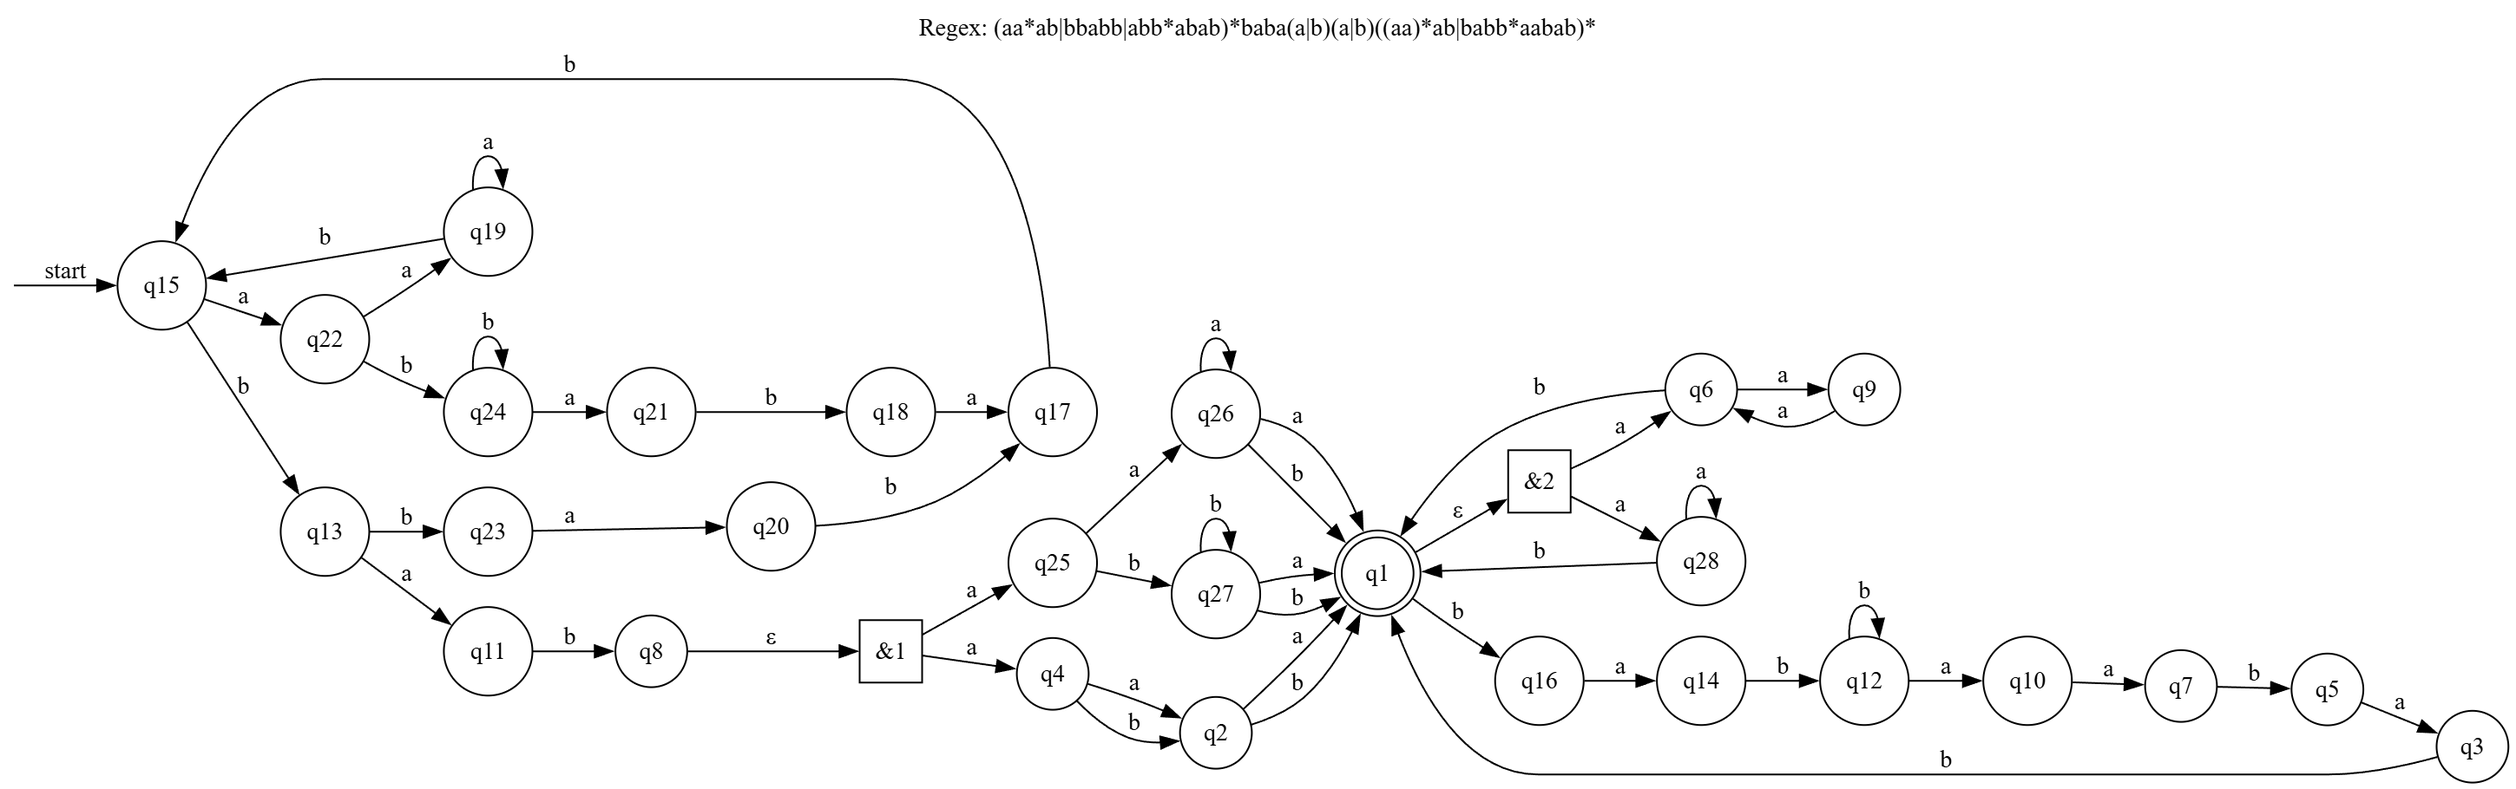
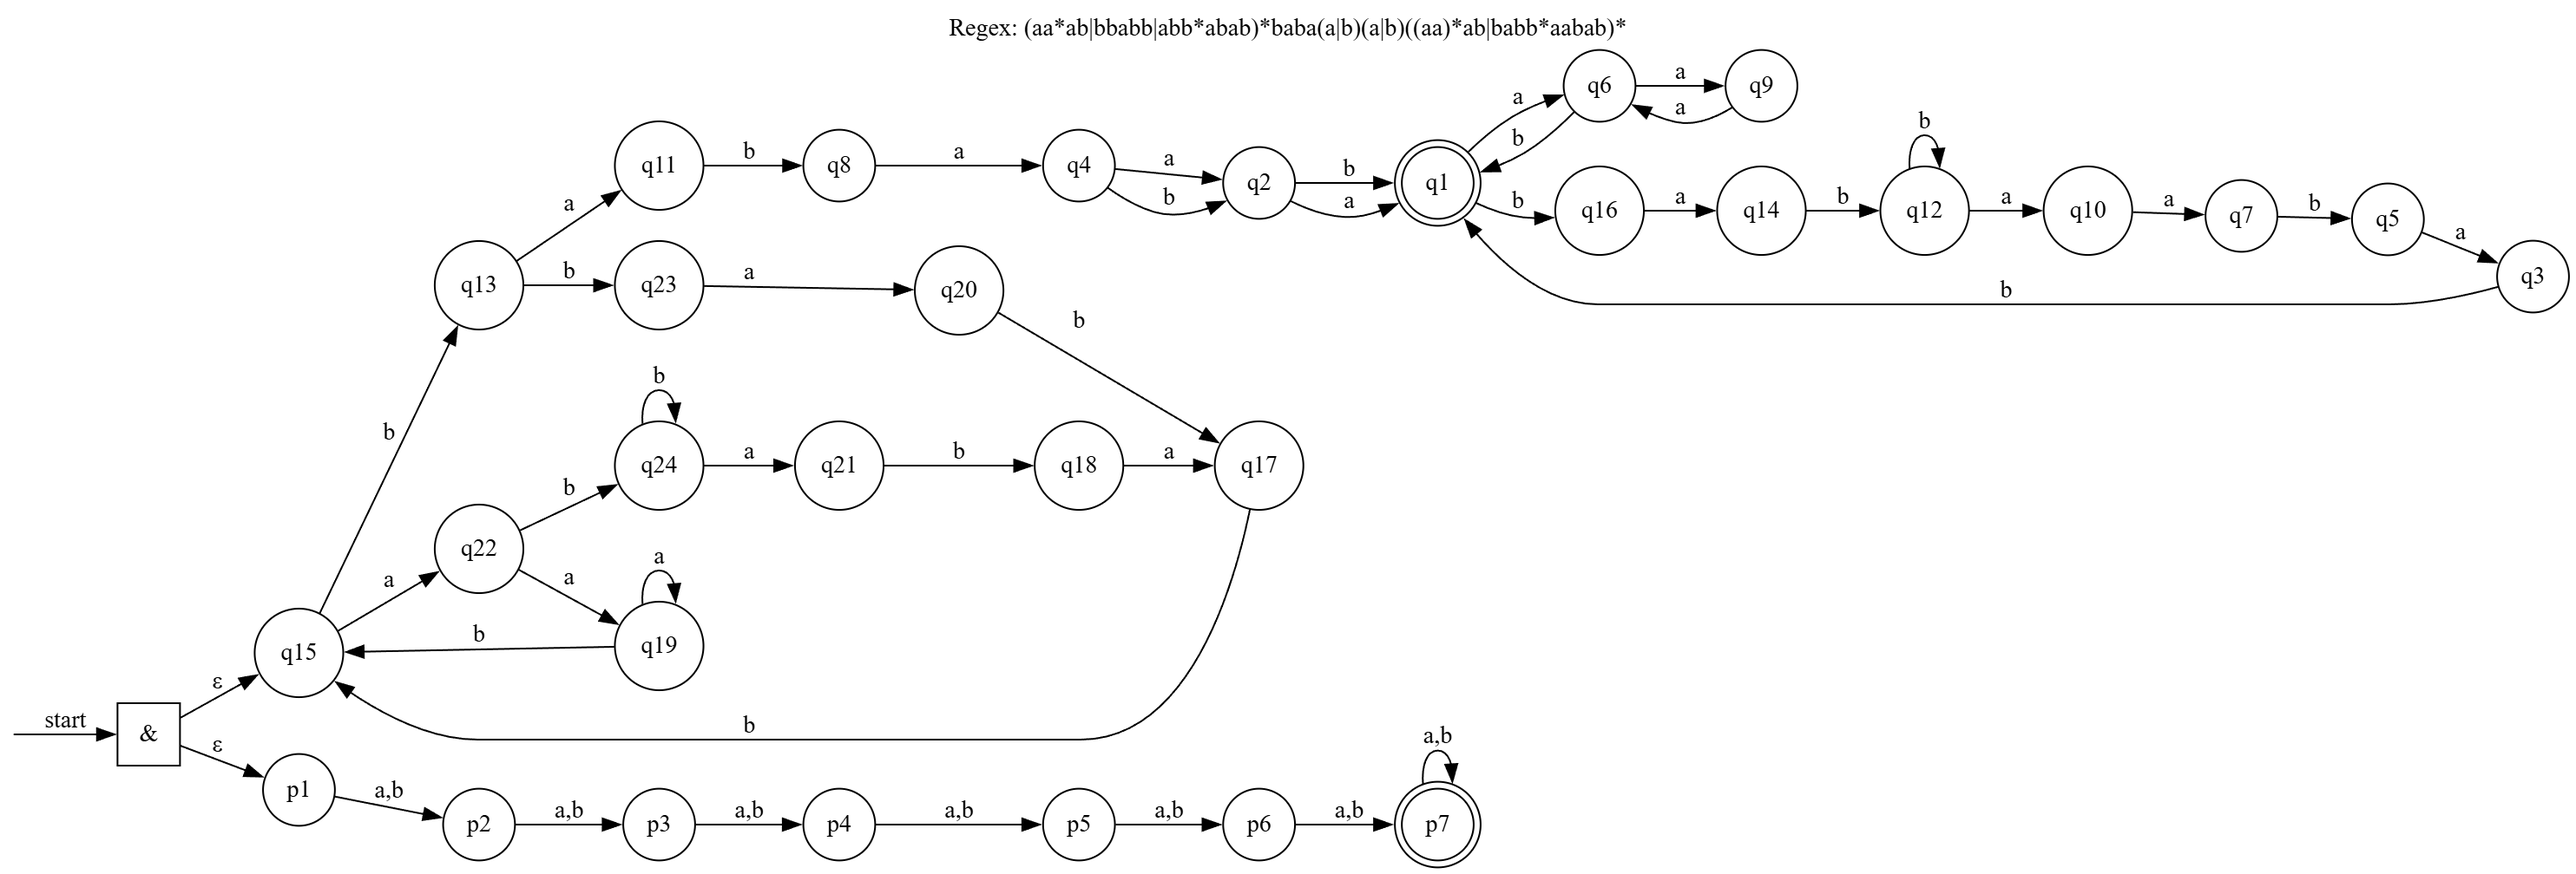
Переделан ПКА, добавлена новая картинка, поправлена проверка пка.

diff --git a/Lab2/table_afa.py b/Lab2/table_afa.py
@@ -10,25 +10,49 @@ def reachable_table_filtered_afa(states, alphabet, transitions, initial_state, f
 
     def delta_star(state_set, word):
         current = set(state_set)
+
+        # Обрабатываем эпсилон-переходы в начале
+        new_states = set()
+        for state in current:
+            if state in transitions and 'epsilon' in transitions[state]:
+                for transition_set in transitions[state]['epsilon']:
+                    new_states.update(transition_set)
+        current.update(new_states)
+
+        # Обрабатываем каждый символ слова
         for symbol in word:
             next_states = set()
             for state in current:
                 if state in transitions and symbol in transitions[state]:
                     for transition_set in transitions[state][symbol]:
                         next_states.update(transition_set)
+
+            # Обрабатываем эпсилон-переходы после символа
+            epsilon_expanded = set()
+            for state in next_states:
+                if state in transitions and 'epsilon' in transitions[state]:
+                    for transition_set in transitions[state]['epsilon']:
+                        epsilon_expanded.update(transition_set)
+            next_states.update(epsilon_expanded)
+
             current = next_states
             if not current:
                 break
+
         return current
 
     def is_accepting_from_state(state, word):
+        # Начинаем с одного состояния
         end_states = delta_star({state}, word)
         return bool(end_states & final_states)
 
     table = {}
+    # Включаем начальное состояние 's' в таблицу
+    all_states = set(states) | {initial_state}
+
     for w in words:
         row = {}
-        for s in states:
+        for s in all_states:
             accepts = is_accepting_from_state(s, w)
             row[s] = "+" if accepts else ""
         table[w] = row
@@ -38,7 +62,7 @@ def reachable_table_filtered_afa(states, alphabet, transitions, initial_state, f
         if any(v == "+" for v in row.values())
     }
 
-    return filtered_table
+    return filtered_table, all_states
 
 
 def print_table(table, states, max_depth=10):
@@ -69,7 +93,8 @@ def check_columns_have_plus(table, states):
     if not missing:
         print("\nВсе состояния имеют +")
     else:
-        print("\nСостояния без +:", ", ".join(sorted(missing, key=lambda x: int(x))))
+        print("\nСостояния без +:", ", ".join(
+            sorted(missing, key=lambda x: (0 if x == 's' else int(x[1:]) if x[0].isdigit() else int(x[1:])))))
 
     return missing
 
@@ -102,25 +127,37 @@ def check_no_identical_columns(table, states):
     return all_unique
 
 
-afa = create_afa()
-states = afa.states
-alphabet = afa.input_symbols
-transitions = afa.transitions
-initial_state = afa.initial_state
-final_states = afa.final_states
+def main():
+    afa = create_afa()
+    states = afa.states
+    alphabet = afa.input_symbols
+    transitions = afa.transitions
+    initial_state = afa.initial_state
+    final_states = afa.final_states
 
-print("Анализ AFA:")
-print(f"Состояния: {sorted(states)}")
-print(f"Алфавит: {alphabet}")
-print(f"Начальное состояние: {initial_state}")
-print(f"Конечные состояния: {final_states}")
+    print("Анализ AFA:")
+    print(f"Состояния: {sorted(states)}")
+    print(f"Алфавит: {alphabet}")
+    print(f"Начальное состояние: {initial_state}")
+    print(f"Конечные состояния: {final_states}")
 
-table_afa = reachable_table_filtered_afa(states, alphabet, transitions, initial_state, final_states, max_depth=6)
-print("\nТаблица достижимости для AFA:")
-print_table(table_afa, states, max_depth=5)
+    print("\n" + "=" * 60)
 
-print("\nПроверка наличия '+' в столбцах:")
-check_columns_have_plus(table_afa, states)
+    table_afa, all_states = reachable_table_filtered_afa(
+        states, alphabet, transitions, initial_state, final_states, max_depth=10
+    )
 
-print("\nПроверка уникальности столбцов:")
-check_no_identical_columns(table_afa, states)
+    print("\nТаблица достижимости для AFA:")
+    print_table(table_afa, all_states, max_depth=5)
+
+    print("\n" + "=" * 60)
+    print("Проверка наличия '+' в столбцах:")
+    check_columns_have_plus(table_afa, all_states)
+
+    print("\n" + "=" * 60)
+    print("Проверка уникальности столбцов:")
+    check_no_identical_columns(table_afa, all_states)
+
+
+if __name__ == "__main__":
+    main()

diff --git a/Lab2/AFA_test.py b/Lab2/AFA_test.py
@@ -3,45 +3,51 @@ from Lab2.AFA import AFA
 
 
 def create_afa():
-    states = {'1', '2', '3', '4', '5', '6', '7', '8', '9', '10', '11', '12', '13', '14', '15', '16', '17', '18', '19',
-              '20', '21', '22', '23', '24',
-              '25', '26', '27', '28'}
+    states = {'q1', 'q2', 'q3', 'q4', 'q5', 'q6', 'q7', 'q8',
+              'q9', 'q10', 'q11', 'q12', 'q13', 'q14', 'q15',
+              'q16', 'q17', 'q18', 'q19',
+              'q20', 'q21', 'q22', 'q23', 'q24',
+              'p1', 'p2', 'p3', 'p4', 'p5', 'p6', 'p7'}
     input_symbols = {'a', 'b'}
     transitions = {
-        '1': {'a': [{'6', '28'}], 'b': [{'16'}]},
-        '2': {'a': [{'1'}], 'b': [{'1'}]},
-        '3': {'b': [{'1'}]},
-        '4': {'a': [{'2'}], 'b': [{'2'}]},
-        '5': {'a': [{'3'}]},
-        '6': {'a': [{'9'}], 'b': [{'1'}]},
-        '7': {'b': [{'5'}]},
-        '8': {
-            'a': [
-                {'4', '25'}
-            ]},
-        '9': {'a': [{'6'}]},
-        '10': {'a': [{'7'}]},
-        '11': {'b': [{'8'}]},
-        '12': {'a': [{'10'}], 'b': [{'12'}]},
-        '13': {'a': [{'11'}], 'b': [{'23'}]},
-        '14': {'b': [{'12'}]},
-        '15': {'a': [{'22'}], 'b': [{'13'}]},
-        '16': {'a': [{'14'}]},
-        '17': {'b': [{'15'}]},
-        '18': {'a': [{'17'}]},
-        '19': {'a': [{'19'}], 'b': [{'15'}]},
-        '20': {'b': [{'17'}]},
-        '21': {'b': [{'18'}]},
-        '22': {'a': [{'19'}], 'b': [{'24'}]},
-        '23': {'a': [{'20'}]},
-        '24': {'a': [{'21'}], 'b': [{'24'}]},
-        '25': {'a': [{'26'}], 'b': [{'27'}]},
-        '26': {'a': [{'26'}, {'1'}], 'b': [{'27'}, {'1'}]},
-        '27': {'a': [{'1'}], 'b': [{'27'}, {'1'}]},
-        '28': {'a': [{'28'}], 'b': [{'1'}]}
+        's': {'epsilon': [{'q15', 'p1'}]},
+
+        'q1': {'a': [{'q6'}], 'b': [{'q16'}]},
+        'q2': {'a': [{'q1'}], 'b': [{'q1'}]},
+        'q3': {'b': [{'q1'}]},
+        'q4': {'a': [{'q2'}], 'b': [{'q2'}]},
+        'q5': {'a': [{'q3'}]},
+        'q6': {'a': [{'q9'}], 'b': [{'q1'}]},
+        'q7': {'b': [{'q5'}]},
+        'q8': {'a': [{'q4'}]},
+        'q9': {'a': [{'q6'}]},
+        'q10': {'a': [{'q7'}]},
+        'q11': {'b': [{'q8'}]},
+        'q12': {'a': [{'q10'}], 'b': [{'q12'}]},
+        'q13': {'a': [{'q11'}], 'b': [{'q23'}]},
+        'q14': {'b': [{'q12'}]},
+        'q15': {'a': [{'q22'}], 'b': [{'q13'}]},
+        'q16': {'a': [{'q14'}]},
+        'q17': {'b': [{'q15'}]},
+        'q18': {'a': [{'q17'}]},
+        'q19': {'a': [{'q19'}], 'b': [{'q15'}]},
+        'q20': {'b': [{'q17'}]},
+        'q21': {'b': [{'q18'}]},
+        'q22': {'a': [{'q19'}], 'b': [{'q24'}]},
+        'q23': {'a': [{'q20'}]},
+        'q24': {'a': [{'q21'}], 'b': [{'q24'}]},
+
+        'p1': {'a': [{'p2'}], 'b': [{'p2'}]},
+        'p2': {'a': [{'p3'}], 'b': [{'p3'}]},
+        'p3': {'a': [{'p4'}], 'b': [{'p4'}]},
+        'p4': {'a': [{'p5'}], 'b': [{'p5'}]},
+        'p5': {'a': [{'p6'}], 'b': [{'p6'}]},
+        'p6': {'a': [{'p7'}], 'b': [{'p7'}]},
+        'p7': {'a': [{'p7'}], 'b': [{'p7'}]}
+
     }
-    initial_state = '15'
-    final_states = {'1'}
+    initial_state = 's'
+    final_states = {'q1', 'p7'}
 
     afa = AFA(states, input_symbols, transitions, initial_state, final_states)
     return afa

diff --git a/Lab2/AFA.py b/Lab2/AFA.py
@@ -12,6 +12,12 @@ class AFA:
         return self._accepts_state(self.initial_state, input_string, 0, memo)
 
     def _accepts_state(self, state, input_string, position, memo) -> bool:
+        is_epsilon = False
+
+        if state in self.transitions and 'epsilon' in self.transitions[state]:
+            epsilon_clauses = self.transitions[state]['epsilon']
+            is_epsilon = True
+
         key = (state, position)
         if key in memo:
             return memo[key]
@@ -21,21 +27,29 @@ class AFA:
             memo[key] = result
             return result
 
-        symbol = input_string[position]
-        if symbol not in self.input_symbols:
-            memo[key] = False
-            return False
+        if not is_epsilon:
+            symbol = input_string[position]
+            if symbol not in self.input_symbols:
+                memo[key] = False
+                return False
 
-        if state not in self.transitions or symbol not in self.transitions[state]:
-            memo[key] = False
-            return False
+            if state not in self.transitions or symbol not in self.transitions[state]:
+                memo[key] = False
+                return False
+            clauses = self.transitions[state][symbol]
 
-        clauses = self.transitions[state][symbol]
+        else:
+            clauses = epsilon_clauses
+
+
 
         for clause in clauses:
             all_accept = True
             for next_state in clause:
-                if not self._accepts_state(next_state, input_string, position + 1, memo):
+                shift = 1
+                if is_epsilon:
+                    shift = 0
+                if not self._accepts_state(next_state, input_string, position + shift, memo):
                     all_accept = False
                     break
             if all_accept:

diff --git a/Lab2/README.md b/Lab2/README.md
@@ -81,20 +81,55 @@
 
 ### 3. ПКА
 
+Инварианты регулярного выражения:
+1. Строка состоит только из символов a и b.
+2. Длина строки не менее 6 символов.
+3. Строка содержит хотя бы одну из следующих подстрок: baba, bab, aba, ab, ba.
+4. Альтернативы первой части регулярного выражения `(aa*ab|bbabb|abb*abab)` оканчиваются на `b`; 
+Альтернативы третьей части регулярного выражения `((aa)*ab|babb*aabab)` оканчиваются на `ab`.
+5. Минимальное кол-во символов `a` или `b` которое может встретиться в слове равно двум.
+
+Для построения ПКА, был выбран второй инвариант. 
+
 ![ПКА](automata/AFA.png)
 
-Таблица классов эквиволентности 
+Таблица классов эквиволентности
 
-| Состояние | ε  | b  | aa | ba | aab | baab | aaab | aaaab |
-|-----------|----|----|----|----|-----|------|------|-------|
-| 26        | 0  | 1  | 1  | 1  | 1   | 1    | 1    | 1     |
-| 25        | 0  | 0  | 1  | 1  | 1   | 1    | 1    | 1     |
-| 27        | 0  | 1  | 0  | 1  | 1   | 1    | 1    | 1     |
-| 2         | 0  | 1  | 0  | 0  | 1   | 1    | 1    | 1     |
-| 4         | 0  | 0  | 1  | 1  | 0   | 1    | 1    | 1     |
-| 8         | 0  | 0  | 0  | 0  | 1   | 0    | 1    | 1     |
-| 6         | 0  | 1  | 0  | 0  | 1   | 1    | 0    | 1     |
-| 11        | 0  | 0  | 0  | 0  | 0   | 1    | 0    | 0     |
+| Состояние | ε | a | aa | aaa | aaab | baaa | aaaab | aabab | abaaa | baaab | babab | abaaab | ababab | baabab | babaaa | abaabab | bbbabaaa | abbbabaaa | babbabaaa | ababbabaaa | aabbabaaa | abbabaaa | bbabaaa |
+|-----------|---|---|----|-----|------|------|-------|-------|-------|-------|-------|--------|--------|--------|--------|---------|----------|-----------|-----------|------------|-----------|----------|---------|
+| q1        | 1 | 0 | 0  | 0   | 1    | 0    | 0     | 0     | 0     | 0     | 0     | 1      | 1      | 0      | 0      | 0       | 0        | 0         | 0         | 0          | 0         | 0        | 0       |
+| q2        | 0 | 1 | 0  | 0   | 0    | 0    | 1     | 1     | 0     | 1     | 1     | 0      | 0      | 0      | 0      | 0       | 0        | 0         | 0         | 0          | 0         | 0        | 0       |
+| q4        | 0 | 0 | 1  | 0   | 1    | 0    | 0     | 0     | 0     | 0     | 0     | 1      | 1      | 1      | 0      | 0       | 0        | 0         | 0         | 0          | 0         | 0        | 0       |
+| q8        | 0 | 0 | 0  | 1   | 0    | 0    | 1     | 1     | 0     | 0     | 0     | 0      | 0      | 0      | 0      | 1       | 0        | 0         | 0         | 0          | 0         | 0        | 0       |
+| q9        | 0 | 0 | 0  | 0   | 1    | 0    | 0     | 0     | 0     | 0     | 0     | 1      | 1      | 0      | 0      | 0       | 0        | 0         | 0         | 0          | 0         | 0        | 0       |
+| q11       | 0 | 0 | 0  | 0   | 0    | 1    | 0     | 0     | 0     | 0     | 0     | 0      | 0      | 1      | 0      | 0       | 0        | 0         | 0         | 0          | 0         | 0        | 0       |
+| q6        | 0 | 0 | 0  | 0   | 0    | 0    | 1     | 1     | 0     | 1     | 1     | 0      | 0      | 0      | 0      | 0       | 0        | 0         | 0         | 0          | 0         | 0        | 0       |
+| q12       | 0 | 0 | 0  | 0   | 0    | 0    | 0     | 1     | 0     | 0     | 0     | 0      | 0      | 1      | 0      | 0       | 0        | 0         | 0         | 0          | 0         | 0        | 0       |
+| q13       | 0 | 0 | 0  | 0   | 0    | 0    | 0     | 0     | 1     | 0     | 0     | 0      | 0      | 0      | 0      | 1       | 0        | 0         | 0         | 0          | 0         | 0        | 0       |
+| q3        | 0 | 0 | 0  | 0   | 0    | 0    | 0     | 0     | 0     | 1     | 1     | 0      | 0      | 0      | 0      | 0       | 0        | 0         | 0         | 0          | 0         | 0        | 0       |
+| q7        | 0 | 0 | 0  | 0   | 0    | 0    | 0     | 0     | 0     | 0     | 1     | 0      | 0      | 0      | 0      | 0       | 0        | 0         | 0         | 0          | 0         | 0        | 0       |
+| q5        | 0 | 0 | 0  | 0   | 0    | 0    | 0     | 0     | 0     | 0     | 0     | 1      | 1      | 0      | 0      | 0       | 0        | 0         | 0         | 0          | 0         | 0        | 0       |
+| q10       | 0 | 0 | 0  | 0   | 0    | 0    | 0     | 0     | 0     | 0     | 0     | 0      | 1      | 0      | 0      | 0       | 0        | 0         | 0         | 0          | 0         | 0        | 0       |
+| q14       | 0 | 0 | 0  | 0   | 0    | 0    | 0     | 0     | 0     | 0     | 0     | 0      | 0      | 1      | 0      | 0       | 0        | 0         | 0         | 0          | 0         | 0        | 0       |
+| q15       | 0 | 0 | 0  | 0   | 0    | 0    | 0     | 0     | 0     | 0     | 0     | 0      | 0      | 0      | 1      | 0       | 0        | 0         | 0         | 0          | 0         | 0        | 0       |
+| q16       | 0 | 0 | 0  | 0   | 0    | 0    | 0     | 0     | 0     | 0     | 0     | 0      | 0      | 0      | 0      | 1       | 0        | 0         | 0         | 0          | 0         | 0        | 0       |
+| q20       | 0 | 0 | 0  | 0   | 0    | 0    | 0     | 0     | 0     | 0     | 0     | 0      | 0      | 0      | 0      | 0       | 1        | 0         | 0         | 0          | 0         | 0        | 0       |
+| q23       | 0 | 0 | 0  | 0   | 0    | 0    | 0     | 0     | 0     | 0     | 0     | 0      | 0      | 0      | 0      | 0       | 0        | 1         | 0         | 0          | 0         | 0        | 0       |
+| q21       | 0 | 0 | 0  | 0   | 0    | 0    | 0     | 0     | 0     | 0     | 0     | 0      | 0      | 0      | 0      | 0       | 0        | 0         | 1         | 0          | 0         | 0        | 0       |
+| q24       | 0 | 0 | 0  | 0   | 0    | 0    | 0     | 0     | 0     | 0     | 0     | 0      | 0      | 0      | 0      | 0       | 0        | 0         | 0         | 1          | 0         | 0        | 0       |
+| q19       | 0 | 0 | 0  | 0   | 0    | 0    | 0     | 0     | 0     | 0     | 0     | 0      | 0      | 0      | 0      | 0       | 0        | 0         | 0         | 0          | 1         | 1        | 1       |
+| q22       | 0 | 0 | 0  | 0   | 0    | 0    | 0     | 0     | 0     | 0     | 0     | 0      | 0      | 0      | 0      | 0       | 0        | 0         | 0         | 0          | 1         | 1        | 0       |
+| q18       | 0 | 0 | 0  | 0   | 0    | 0    | 0     | 0     | 0     | 0     | 0     | 0      | 0      | 0      | 0      | 0       | 0        | 0         | 0         | 0          | 0         | 1        | 0       |
+| q17       | 0 | 0 | 0  | 0   | 0    | 0    | 0     | 0     | 0     | 0     | 0     | 0      | 0      | 0      | 0      | 0       | 0        | 0         | 0         | 0          | 0         | 0        | 1       |
+| p1        | 0 | 0 | 0  | 0   | 0    | 0    | 0     | 0     | 0     | 0     | 0     | 1      | 1      | 1      | 1      | 1       | 1        | 1         | 1         | 1          | 1         | 1        | 1       |
+| p2        | 0 | 0 | 0  | 0   | 0    | 0    | 0     | 0     | 0     | 0     | 0     | 1      | 1      | 1      | 1      | 1       | 1        | 1         | 1         | 1          | 1         | 1        | 1       |
+| p3        | 0 | 0 | 0  | 0   | 1    | 1    | 1     | 1     | 1     | 1     | 1     | 1      | 1      | 1      | 1      | 1       | 1        | 1         | 1         | 1          | 1         | 1        | 1       |
+| p4        | 0 | 0 | 0  | 1   | 1    | 1    | 1     | 1     | 1     | 1     | 1     | 1      | 1      | 1      | 1      | 1       | 1        | 1         | 1         | 1          | 1         | 1        | 1       |
+| p5        | 0 | 0 | 1  | 1   | 1    | 1    | 1     | 1     | 1     | 1     | 1     | 1      | 1      | 1      | 1      | 1       | 1        | 1         | 1         | 1          | 1         | 1        | 1       |
+| p6        | 0 | 1 | 1  | 1   | 1    | 1    | 1     | 1     | 1     | 1     | 1     | 1      | 1      | 1      | 1      | 1       | 1        | 1         | 1         | 1          | 1         | 1        | 1       |
+| p7        | 1 | 1 | 1  | 1   | 1    | 1    | 1     | 1     | 1     | 1     | 1     | 1      | 1      | 1      | 1      | 1       | 1        | 1         | 1         | 1          | 1         | 1        | 1       |
+
+
 
 
 ### 4. Расширенное регулярное выражение.
